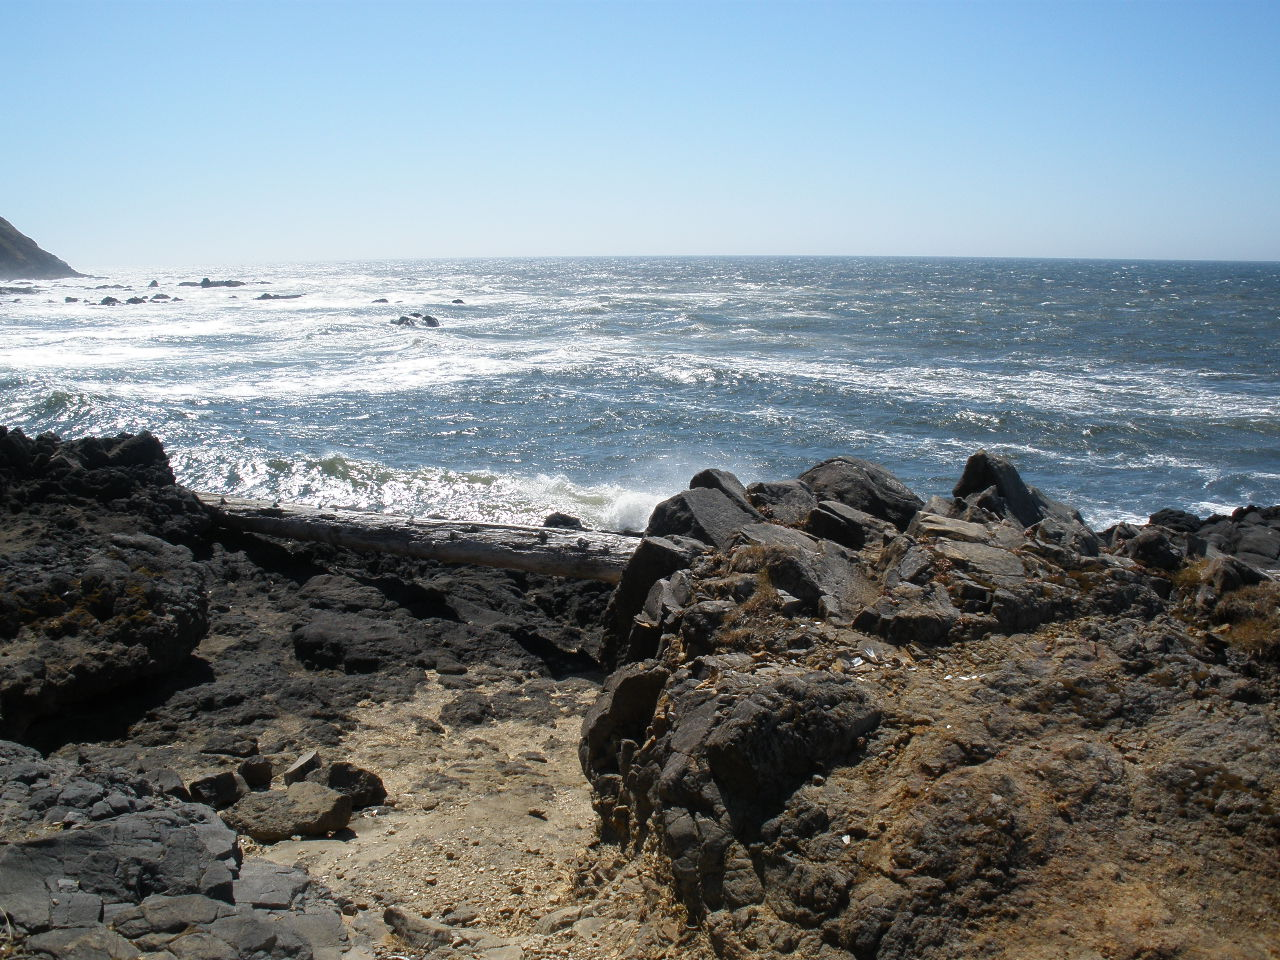
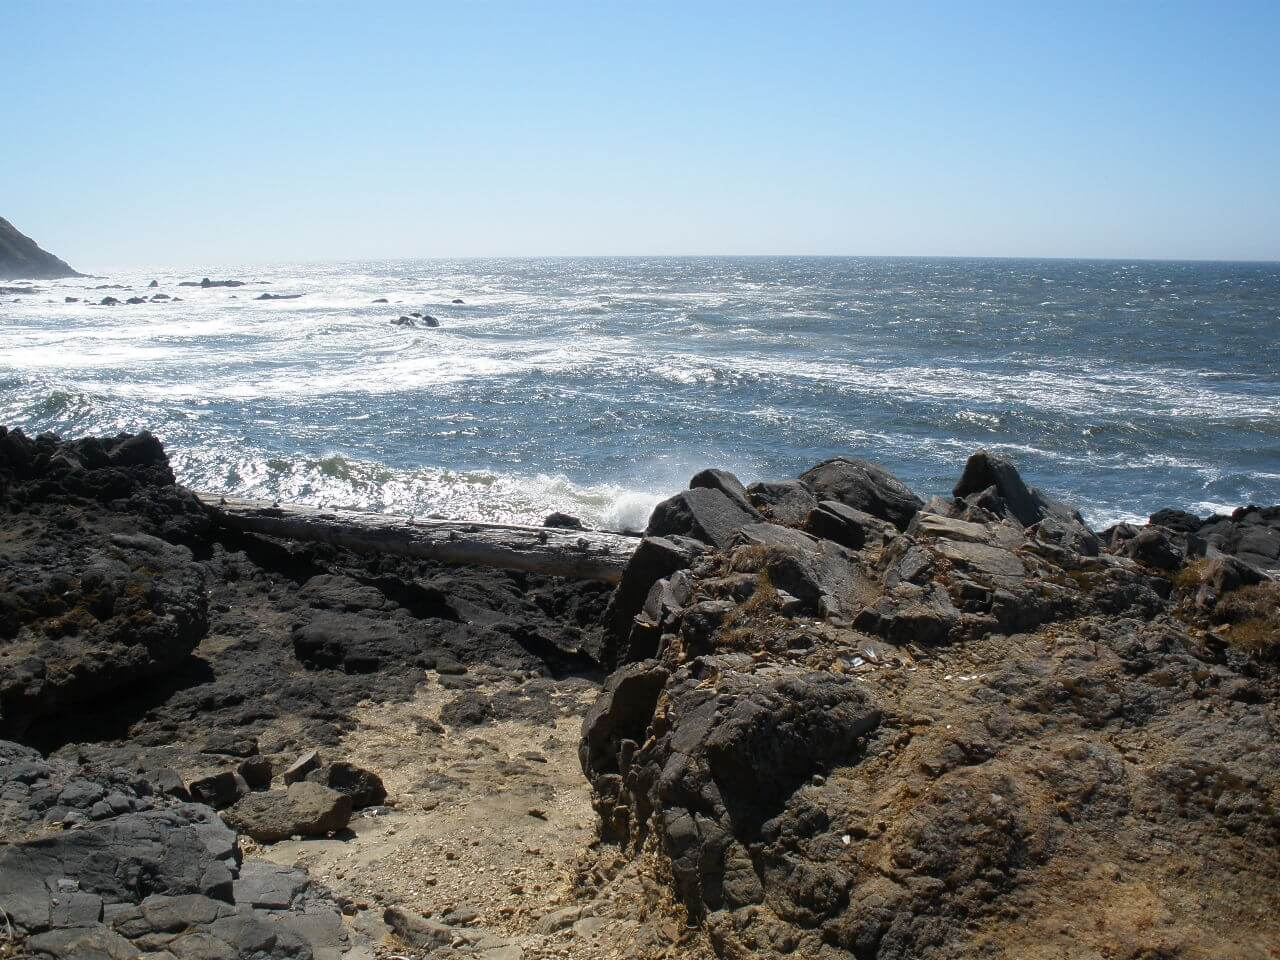
Compress Background Images
Focus on decreasing load time.

diff --git a/css/main.css b/css/main.css
@@ -217,7 +217,7 @@ html, body {
 /* ------- Middle Section #1 ------- */
 #middle_1 {
     height: 400px;
-    background: url('pics/middle2.jpg') no-repeat center fixed;
+    background: url('pics/middle.jpg') no-repeat center fixed;
     -webkit-background-size: cover;
     -moz-background-size: cover;
     -o-background-size: cover;
@@ -424,7 +424,7 @@ html, body {
 /* ------- Middle Section #2 ------- */
 #middle_2 {
     height: 400px;
-    background: url('pics/middle3.jpg') no-repeat center fixed;
+    background: url('pics/bottom.jpg') no-repeat center fixed;
     -webkit-background-size: cover;
     -moz-background-size: cover;
     -o-background-size: cover;
